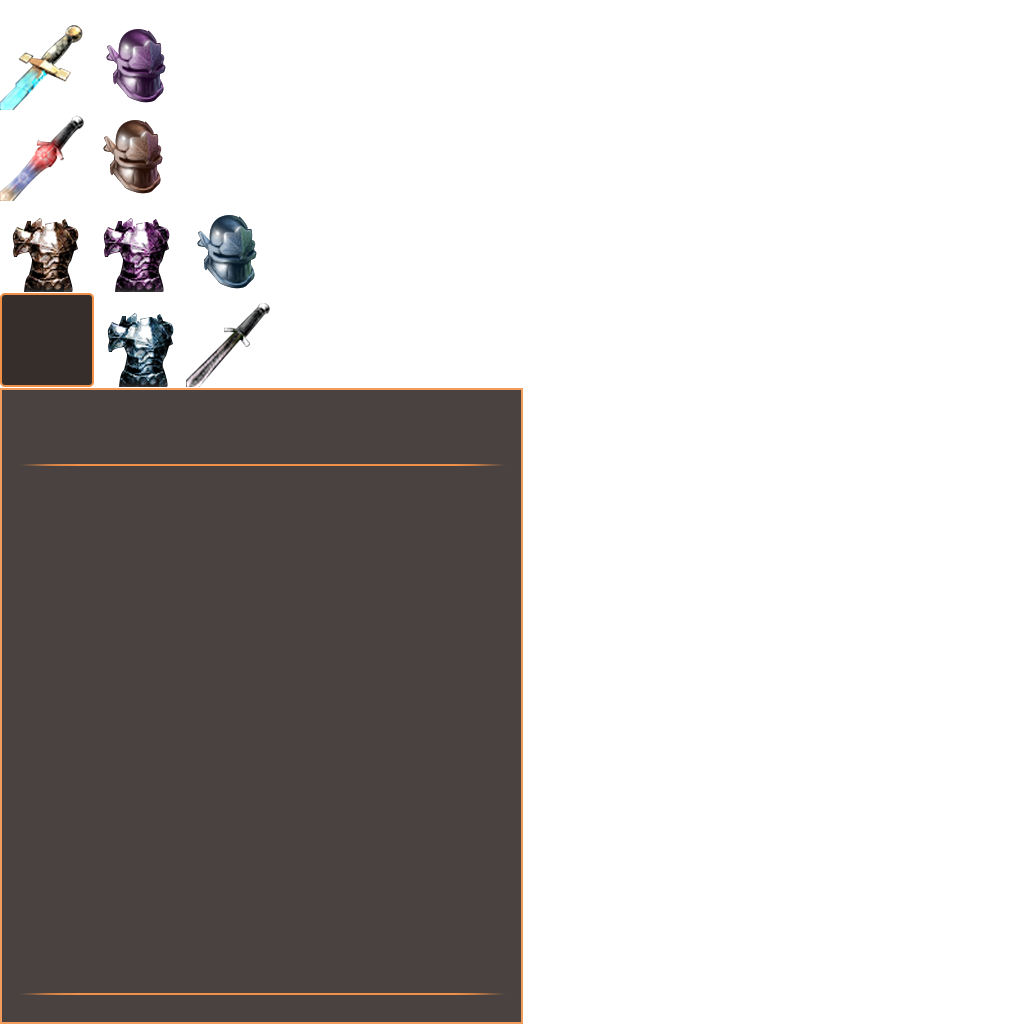
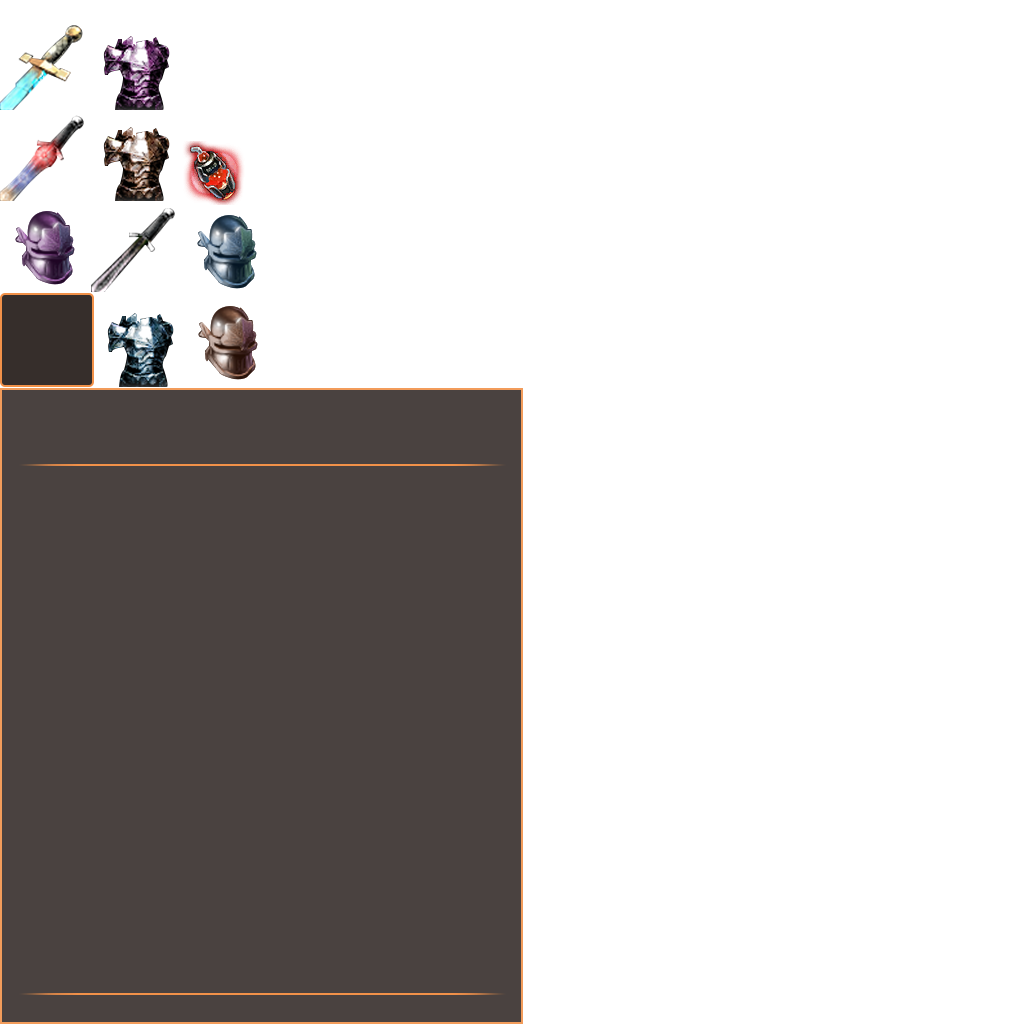
망할 인벤토리

Changed region(s): [[0.0, 0.0312, 0.25, 0.3125], [0.1875, 0.2812, 0.2812, 0.375]]

diff --git a/SlimeEvolution/Assets/1.Scenes/UnitTestScenes/UI/Inventory/Script/BackPack.cs b/SlimeEvolution/Assets/1.Scenes/UnitTestScenes/UI/Inventory/Script/BackPack.cs
@@ -25,7 +25,7 @@ public class BackPack : MonoBehaviour {
     public int InvSlotCol;
     int InvSlotRow;
 
-
+    public int MaxQuatityNum;
 
     public List<Item> mItems = new List<Item>();
 
@@ -44,6 +44,22 @@ public class BackPack : MonoBehaviour {
         {
             Item prev = items[slot];
             mItems[slot] = item;
+            //if (item == null)
+            //{
+            //    prevQuantity = InvSlot[slot].Quantity;
+            //    InvSlot[slot].Quantity = 1;
+            //    InvSlot[slot].label.text ="";
+
+
+            //}
+            //else
+            //{
+            //    InvSlot[slot].Quantity = prevQuantity;
+            //    InvSlot[slot].UpdateText();
+
+            //}
+
+
             return prev;
         }
         return item;
@@ -64,6 +80,9 @@ public class BackPack : MonoBehaviour {
                 slot.SlotNum = x;
                 slot.isEmpty = true;
                 slot.name = "Slot [ " + x + " ]";
+                slot.label.text = "";
+                slot.Quantity = 1;
+                slot.MaxQuantity = MaxQuatityNum;
                 InvSlot.Add(slot);
             }
 
@@ -74,21 +93,37 @@ public class BackPack : MonoBehaviour {
     {
         for (int i = 0; i < InvSlot.Count; i++)
         {
-            Debug.Log(InvSlot[i].isEmpty);
-            if (InvSlot[i].isEmpty)
-            {
-                mItems[i] = item;
+            if (CheckSameItem(item))
                 return;
+            else
+            {
+                if (InvSlot[i].isEmpty)
+                {
+                    mItems[i] = item;
+                    InvSlot[i].UpdateText();
+                    return;
+                }
             }
-
         }
     }
-
-
-
-
+    bool CheckSameItem(Item item)
+    {
+        bool isbool = false;
+        for (int i = 0; i < InvSlot.Count; i++)
+        {
+            if (mItems[i] != null && item.ID == mItems[i].ID && item.Type == ItemType.Disposable && InvSlot[i].Quantity < MaxQuatityNum)
+            {
+                InvSlot[i].Quantity++;
+                InvSlot[i].UpdateText();
+                isbool = true;
+                break;
+            }
+        }      
+        return isbool;
+    }
 
     //아이템먹을때 어느슬랏에 넣을지 
+    //Equipment , Disposable
 
 
 }

diff --git a/SlimeEvolution/Assets/1.Scenes/UnitTestScenes/UI/Inventory/Script/ItemSlot.cs b/SlimeEvolution/Assets/1.Scenes/UnitTestScenes/UI/Inventory/Script/ItemSlot.cs
@@ -6,7 +6,7 @@ public abstract class ItemSlot : MonoBehaviour {
 
     public UISprite icon;
     [SerializeField]
-    Item mItem;
+    protected Item mItem;
     public bool isEmpty;
 
     static Item mDraggedItem;
@@ -65,8 +65,11 @@ public abstract class ItemSlot : MonoBehaviour {
         }
         else if (mItem != null)
         {
+            //원래자리에 있던 아이템을 든다//
             mDraggedItem = Replace(null);
+
             UpdateCursor();
+
         }
 
         Debug.Log("OnClick");
@@ -83,8 +86,9 @@ public abstract class ItemSlot : MonoBehaviour {
     void OnDrop(GameObject go)
     {
         Item item = Replace(mDraggedItem);
-
+        //바꾼아이템을 든다//
         mDraggedItem = item;
+
         UpdateCursor();
     }
     void UpdateCursor()

diff --git a/SlimeEvolution/Assets/1.Scenes/UnitTestScenes/UI/Inventory/Script/InventorySlot.cs b/SlimeEvolution/Assets/1.Scenes/UnitTestScenes/UI/Inventory/Script/InventorySlot.cs
@@ -7,9 +7,12 @@ public class InventorySlot : ItemSlot
 {
 
     public BackPack storage;
+    public UILabel label;
     public int SlotNum;
-    public Stack<Item> Quatity;
-
+    public int Quantity;
+    public int MaxQuantity;
+    
+    
 
     override protected Item observedItem
     {
@@ -22,9 +25,20 @@ public class InventorySlot : ItemSlot
 
     override protected Item Replace(Item item)
     {
+        
         return (storage != null) ? storage.Replace(SlotNum, item) : item;
+
+
+    }
+    public void UpdateText()
+    {
+        label.text = Quantity.ToString();
     }
 
+    public void ClearSlot()
+    {
+
+    }
 
 
 }

diff --git a/SlimeEvolution/Assets/1.Scenes/UnitTestScenes/UI/Inventory/Script/Item.cs b/SlimeEvolution/Assets/1.Scenes/UnitTestScenes/UI/Inventory/Script/Item.cs
@@ -7,19 +7,26 @@ using UnityEngine.UI;
 public class Item : ScriptableObject
 {
 
-    new public string name = null;
+    public int ID;
+    public string Name = null;
     public string SpriteName;
     public UIAtlas iconAtlas;
     public bool isDefalutItem = false;
+    public ItemType Type;
 
     public virtual void Use(int slotNum)
     {
-        Debug.Log("Using" + name);
+        Debug.Log("Using" + Name);
 
     }
     public void RemoveFromInventory(int slotNum)
     {
        // TestInventory.instance.Remove(slotNum, this);
     }
+}
+public enum ItemType
+{
+    Equipment,
+    Disposable,
 }
 

diff --git a/SlimeEvolution/Assets/1.Scenes/UnitTestScenes/UI/Inventory/Script/ItemPickUp.cs b/SlimeEvolution/Assets/1.Scenes/UnitTestScenes/UI/Inventory/Script/ItemPickUp.cs
@@ -8,7 +8,7 @@ public class ItemPickUp : MonoBehaviour {
 
     public void PickUp()
     {
-        Debug.Log("Picking Up " + item.name);
+        Debug.Log("Picking Up " + item.Name);
         BackPack.instance.AddItemToSlot(item);
         //if (wasPickedUp)
         //{

diff --git a/SlimeEvolution/Assets/1.Scenes/UnitTestScenes/UI/Inventory/Script/TestEquipment.cs b/SlimeEvolution/Assets/1.Scenes/UnitTestScenes/UI/Inventory/Script/TestEquipment.cs
@@ -20,8 +20,6 @@ public class TestEquipment : Item
         //TestEquipmentManager.instance.Equip(this, slotNum);
         Debug.Log("eqiped");
         //아이템 제거//
-
-
     }
 
 }
